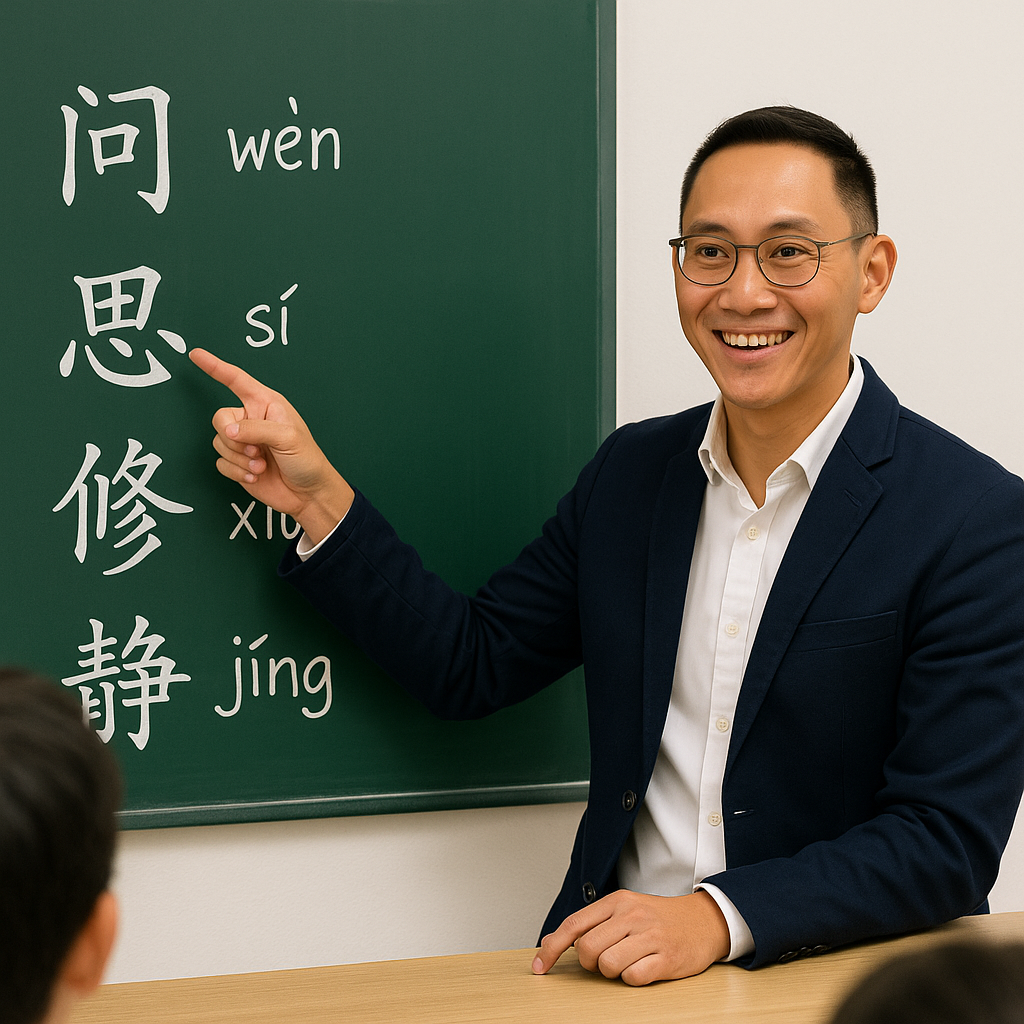
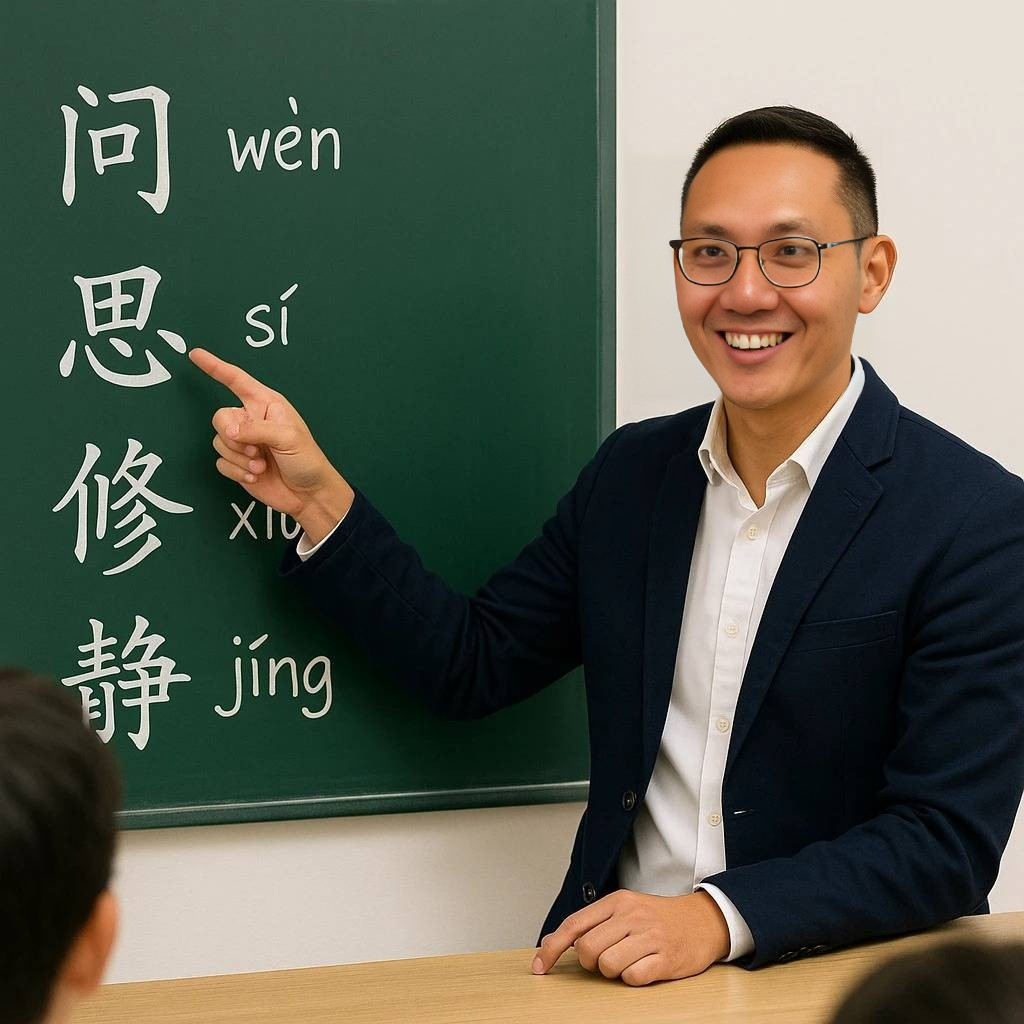
images changes

diff --git a/components/sections/About.tsx b/components/sections/About.tsx
@@ -20,8 +20,8 @@ const About = () => {
               className="relative rounded-2xl overflow-hidden"
             >
               <Image
-                src="https://images.pexels.com/photos/8471835/pexels-photo-8471835.jpeg"
-                alt="Students learning Chinese with mindfulness"
+                src="/Where-Mandarin-meets-Mindfulness.png"
+                alt="Where Mandarin meets Mindfulness illustration"
                 width={600}
                 height={400}
                 className="w-full h-[500px] object-cover rounded-2xl"
